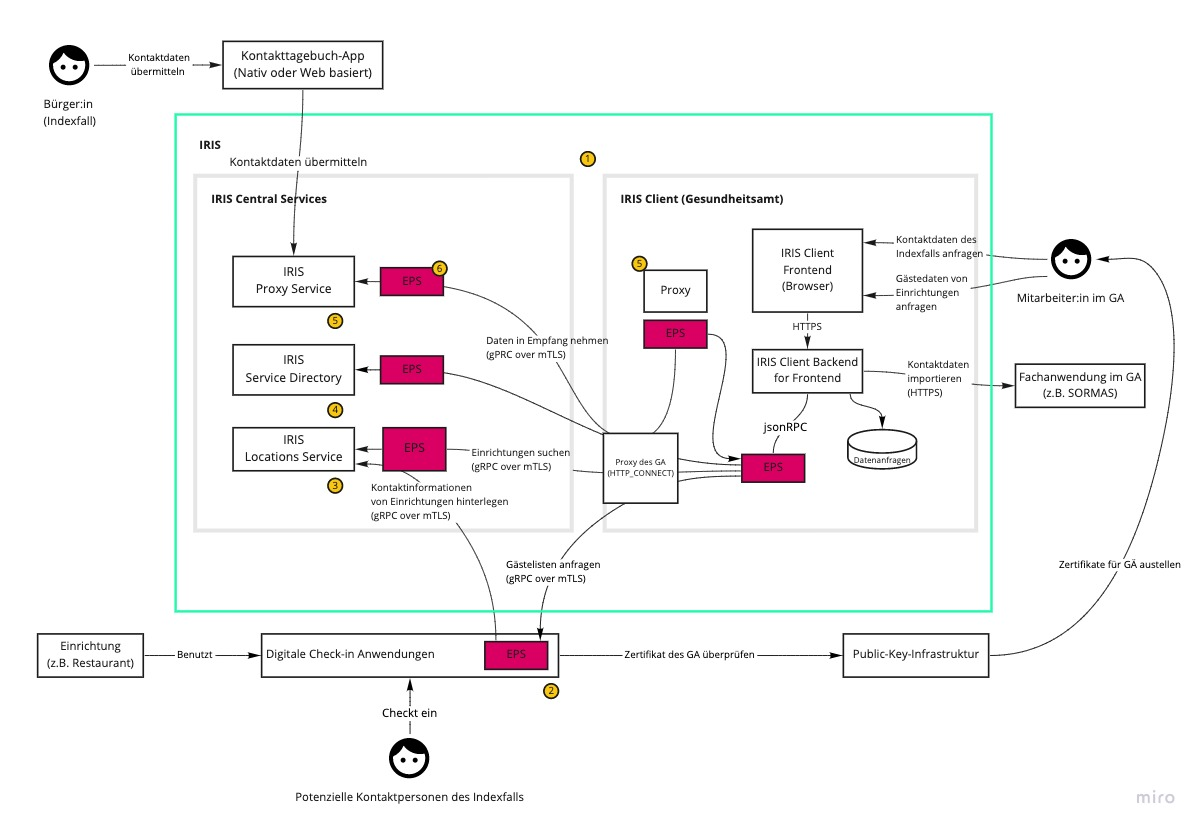
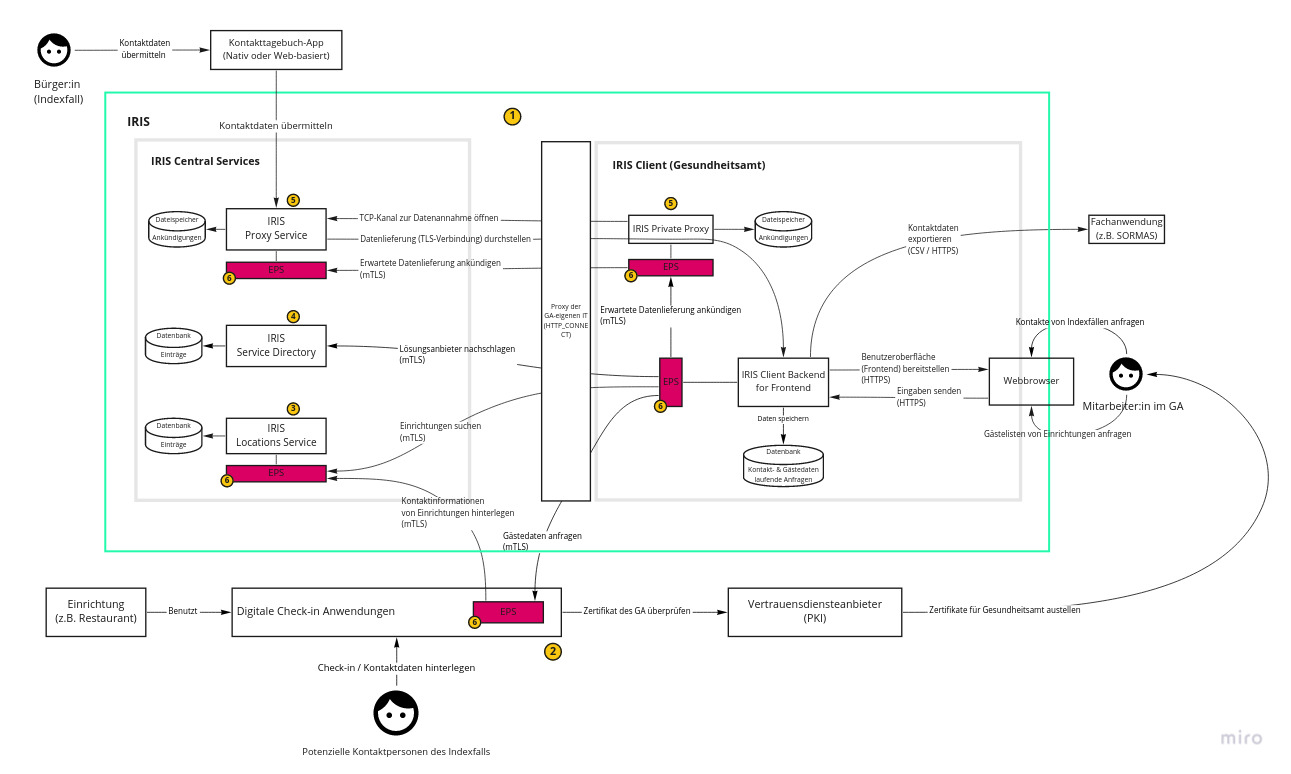
Update Architektur.md and IRIS-C2

diff --git a/infrastructure/deployment/docs/Architektur.md b/infrastructure/deployment/docs/Architektur.md
@@ -1,17 +1,35 @@
 ## IRIS Connect Architektur
 
-IRIS connect baut auf einer dezentralen Architektur auf. Dabei findet der Austausch von persönlichen Daten (wie z.B. Gästelisten oder Kontakttagebüchern) direkt zwischen den App Anbietern und dem zuständigen Gesundheitsamt statt. 
+IRIS connect baut auf einer dezentralen Architektur auf. Dabei findet der Austausch von persönlichen Daten (wie z.B. Gästelisten oder Kontakttagebüchern) direkt zwischen den App Anbietern und dem zuständigen Gesundheitsamt statt.
 
-Das folgende Schaubild visualisiert die Architektur und erklärt die zentralen Bestandteile. 
+IRIS connect besteht aus
+* Einem zentralen Gateway, bei dem alle teilnehmenden digitalen Lösungen "registriert" sind. Dieses Gateway stellt den
+  angeschlossenen Gesundheitsämtern und Anbietern zentrale Dienste bereit, z.B. das Vermitteln von Anfragen aus den
+  Gesundheitsämtern an die angeschlossenen Lösungen und das Rück-Vermitteln der angefragten Daten an die
+  Gesundheitsämter.
+* Einer Benutzerschnittstelle in den Gesundheitsämtern (Client), über die Mitarbeitende die erfassten Daten der
+  Bürger:innen und Einrichtungen anfragen und abrufen können.
+* Einem verteilten Netzwerk von Endpoint-Servern (EPS), das den verschiedenen Akteuren bei IRIS eine sichere Kommunikation miteinander ermöglicht.
 
+IRIS connect tritt als Vermittler zwischen den Gesundheitsämtern und den verschiedenen digitalen Lösungen auf.
+Es erfolgt insbesondere keine zentrale Speicherung der übermittelten Daten.
+
+Das Verschlüsseln von personenbezogenen Daten findet direkt in der jeweiligen an IRIS angebundenen Anwendung statt.
+Das Entschlüsseln erfolgt im IRIS-Client-Backend, also quasi im Gesundheitsamt.
+Hinzu kommt Transportverschlüsselung mittels TLS/HTTPS und ggf. eine zusätzliche Inhaltsverschlüsselung gemäß Anforderung der Datenschutzkonferenz.
+Erst im IRIS-Client liegen die Daten dann unverschlüsselt vor.
+Vor der Datenabfrage durch ein Gesundheitsamt liegen diese ausschließlich bei der angebundenen Anwendung und nicht im IRIS-System.
+
+Das folgende Schaubild visualisiert die Architektur und erklärt die zentralen Bestandteile.
+
+*Schaubild der Akteure, Komponenten und typischen Use Cases von IRIS*
 ![IRIS C2 Architektur](IRIS-C2-with-EPS.jpg)
 
-| Nummer | Erklärung |
-|-|-|
-|1| IRIS connect unterteilt sich in *IRIS Central Services* und den *IRIS Client*. Erstere werden zentral im Rechenzentrum der [AKDB](https://www.akdb.de/) gehostet und vom [IRIS connect Team](https://github.com/iris-connect) verwaltet. Der IRIS Client wird mitsamt einer Dokumentation zum Download für die IT-Teams der Gesundheitsämter bereitgestellt. |
-|2| Ein weiterer wichtiger Teilnemer in IRIS connect sind die Kontaktdatenerfassungs-Apps. Diese stammen zum größten Teil aus der Initiative [Wir für Digitaliserung](https://www.wirfuerdigitalisierung.de/). |
-|3| Damit Einrichtungen bei dehnen eine digitale Kontaktdatenerfassung im Einsatz ist vom Gesundheitsamt gefunden werden können, stellt IRIS connect ein zentrales Suchregister zur Verfügung. Die Daten im Suchregister werden von den Kontaktdatenerfassungs-Apps bereitgestellt. |
-|4| Das vom IRIS connect Team verwaltete Service Directory enthält Einträge für alle teilnehmenden Akteure um IRIS connect. Zudem werden die Berechtigungen der Kommunikationsbeziehungen hier hinterlegt. |
-|5| Der IRIS Proxy Service ermöglicht es, Daten aktiv in ein Gesundheitsamt zu schicken. Dafür stellt der Proxy eine autorisierte Verbindung zwischen einer App und einer Proxy Komponente im Gesundheitsamt her. Der IRIS Client im Gesundheitsamt muss dafür keine eingehenden Verbindungen zulassen. |
-|6| Herzstück der Punkt-zu-Punkt Kommunikation ist der IRIS [Endpunktserver (EPS)](https://github.com/iris-connect/eps/blob/master/README.md). Dabei handelt es sich um eine Komponente die dezentral bei allen Akteure des IRIS connect Systems installiert wird. Die Kommunikation erfolgt über gRPC mittels MTLS. Die dafür notwendigen Zertifikate werden vom IRIS connect Team ausgestellt. |
-
+| Nummer | Bezeichnung | Erklärung |
+| --- | --- | --- |
+|1| IRIS connect | IRIS connect unterteilt sich in *IRIS Central Services* und den *IRIS Client*. Erstere werden zentral im Rechenzentrum der [AKDB](https://www.akdb.de/) gehostet und vom [IRIS connect Team](https://github.com/iris-connect) verwaltet. Der IRIS Client wird mitsamt einer Dokumentation zum Download für die IT-Teams der Gesundheitsämter bereitgestellt. |
+|2| Kontakdatenerfassungs-Apps| Ein weiterer wichtiger Teilnehmer in IRIS connect sind die Kontaktdatenerfassungs-Apps. Diese stammen zum größten Teil aus der Initiative [Wir für Digitaliserung](https://www.wirfuerdigitalisierung.de/). |
+|3| Suchregister <br /> (Locations Service) | Damit Einrichtungen, bei denen eine digitale Kontaktdatenerfassung im Einsatz ist vom Gesundheitsamt gefunden werden können, stellt IRIS connect ein zentrales Suchregister zur Verfügung. Die Daten im Suchregister werden von den Kontaktdatenerfassungs-Lösungen bereitgestellt. |
+|4| Service Directory | Das vom IRIS connect Team verwaltete Service Directory enthält Einträge für alle teilnehmenden Akteure um IRIS connect. Zudem werden die Berechtigungen der Kommunikationsbeziehungen hier hinterlegt. |
+|5| IRIS Proxy Service | Der IRIS Proxy Service ermöglicht es Bürger:innen und Lösungsanbieter:innen, Daten aktiv in ein Gesundheitsamt zu schicken. Dafür stellt der Proxy eine autorisierte Verbindung zwischen einer App bzw. einem Browser und einer Proxy-Komponente im Gesundheitsamt her. Der IRIS Client im Gesundheitsamt muss dafür keine eingehenden Verbindungen zulassen. |
+|6| Endpunktserver (EPS)| Herzstück der Punkt-zu-Punkt Kommunikation ist der IRIS [Endpunktserver (EPS)](https://github.com/iris-connect/eps/blob/master/README.md). Dabei handelt es sich um eine Komponente, die dezentral bei allen Akteure des IRIS connect Systems installiert wird. Die Kommunikation erfolgt gesichert über mTLS. |
